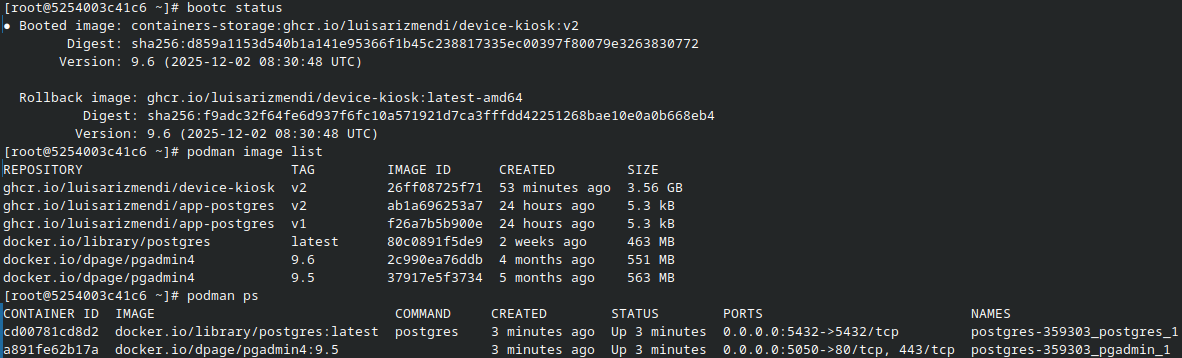
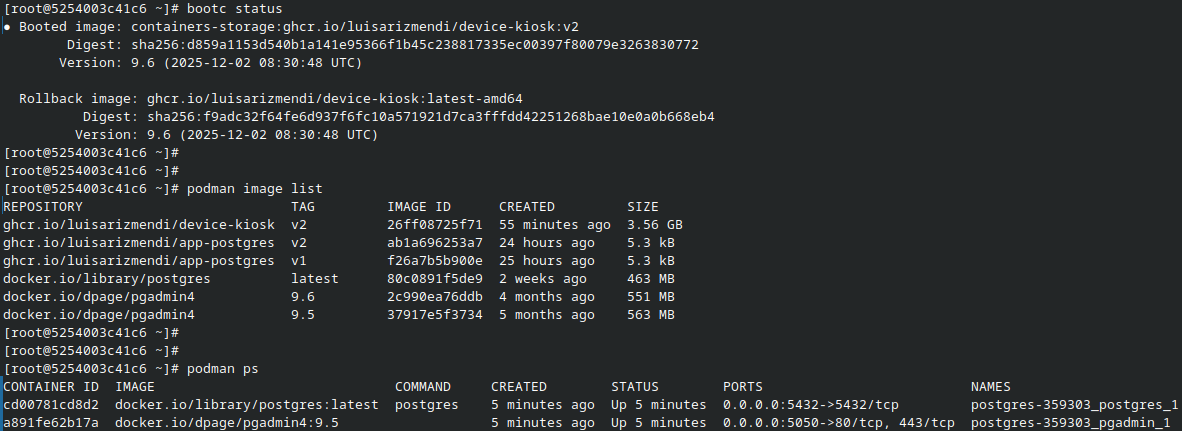
change policy

Changed region(s): [[0.0, 0.2151, 1.0, 1.0], [0.0, 0.0, 0.6091, 0.1844], [0.2437, 0.7682, 0.2741, 0.7989]]

diff --git a/docs/04-demo-script.md b/docs/04-demo-script.md
@@ -367,13 +367,34 @@ When to Use Runtime Configuration:
    - Assign the Microshift cluster to the `stores` ClusterSet in the `Infrastructure > Clusters` menu under `Cluster sets` tab. Click the three dots on the right to the `stores` ClusterSet and click `Manage resource assignments`. Select the Microshift cluster and click "Review" and "Save".
 
 4. **Review device compliance**
-   - Check in ACM `Governance` how the Policies were assigned to the device. It could take a couple of minutes.
+   - Go to ACM `Governance` menu. In the the `Policies` tab you can check that the configuration have been applied to the device.
+   
+   
+
+
+
+   - SSH to the device. 
+   
+   
+
    - Check changes in the `watch` command output, after some time you will see two new applications. One will be `hello` and the other will depend on your `function` label, it could be either `pos` or `infra`.
    - Run this command in the VM to get the routes to the new APPs: `oc get route -A`
 
 5. **Review deployed APPs**
    - Open the URL for the `hello` APP. You will see a message that will depend on the labels `site` and `function` that you configured in your cluster.
    - Open the URL for the `pos` or `infra` APP
+
+
+
+
+
+
+
+
+
+
+
+
 
 
 ![step 7](step-7.png)
@@ -383,6 +404,16 @@ When to Use Runtime Configuration:
 - Zero-Touch provisioning for Microshift APPs
 - You can control what APPs are deployed depending on cluster labels and ClusterSet assignment 
 - You can control deployed APP configuration depending on cluster labels and ClusterSet assignment 
+
+
+
+
+
+
+
+
+
+
 
 
 ---
